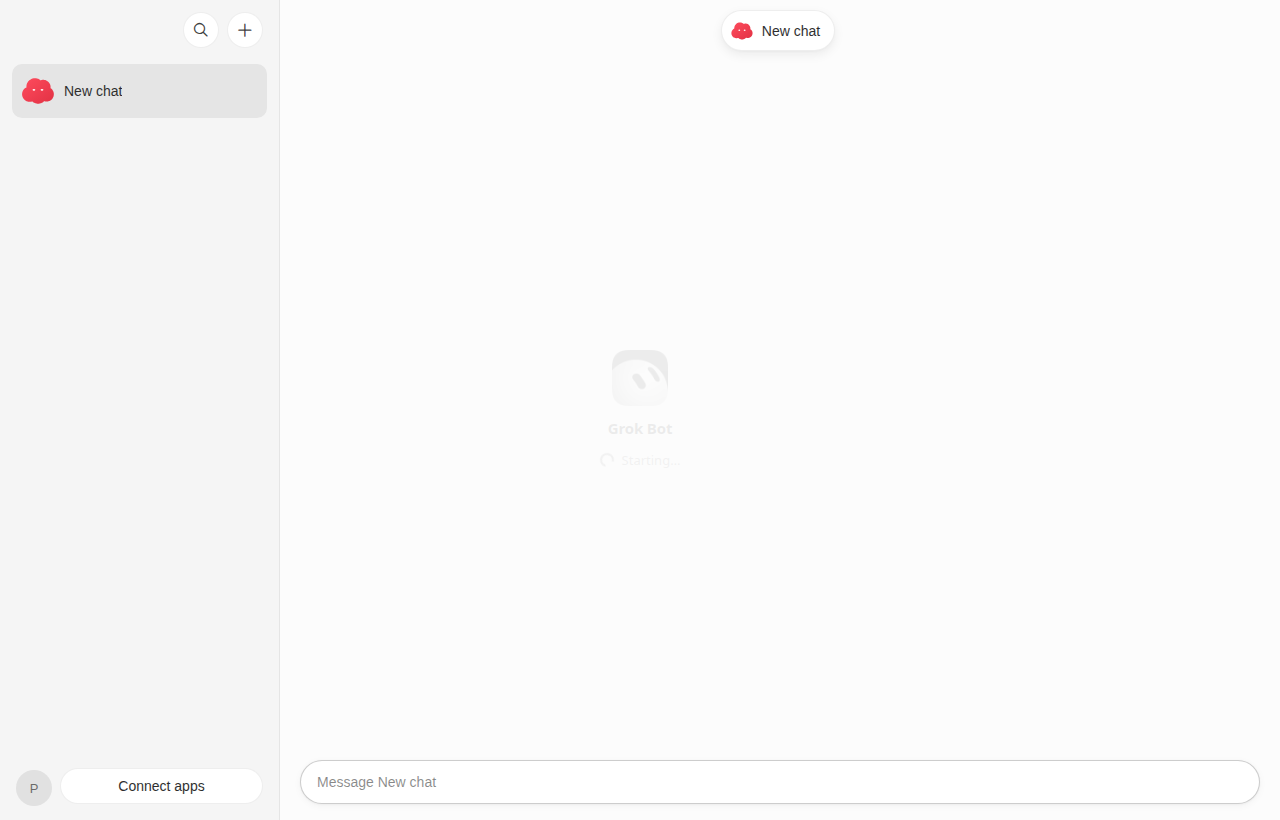
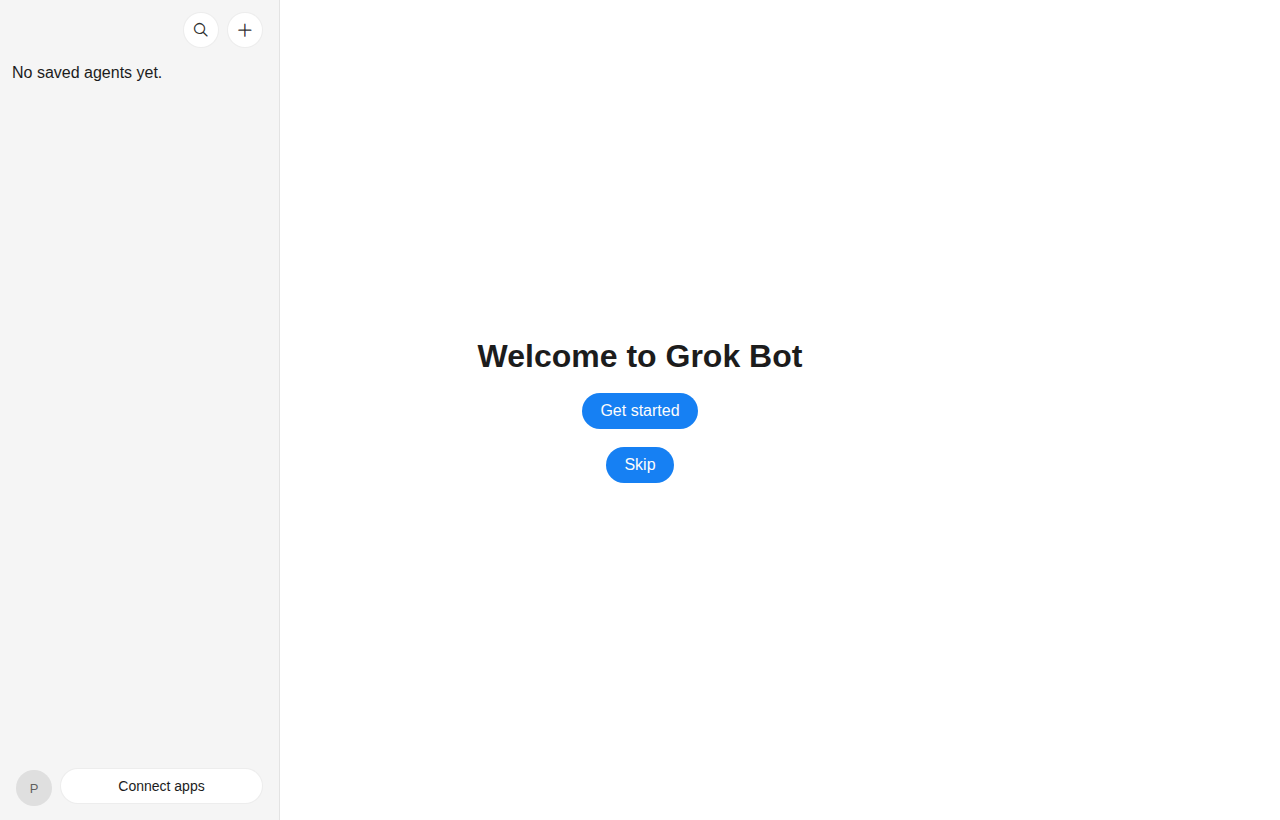
chore(tickets): T26 终验通过挪done——经理任务B
T26+T26b 合并验收 @feat/T26 145c784d：onboarding x3 12 passed、三文件 x2 34 passed、
unit 211、check diff=0；V-c 变异抽验 2/2 红。附 T26b 重拍截图（landing 亮暗、create）。

diff --git a/work/tickets/queue.md b/work/tickets/queue.md
@@ -17,9 +17,9 @@
 | U3b | **T29** 删 ToolResultCard 死路径（提议⑤）：`overrides/modules/model.ts` 的 tool-call 投影与 `p5-w3f1/w3f3` 单测随之调整；机械删除，主 agent 可直接按模板写单 | T22 合并 | 计划（与 T23 不同文件，可任意时排） |
 | U4 | **T24** 建 bot 对话框形象区（`done/T24-create-dialog-shapes.md`）：13 形状 picker（`pn` 序 blob/cloud/square/sparkle/clover/heart/flower/teardrop/tablet/wedge/house/star/hex，5/5/3）+ 11 色（含 Black，DOM 序同 T20b）+ 实时预览 + 形状/颜色各自随机初值；**选形不改色**（T20b 实测，旧「选形自动配色」作废——`tf()` 只给季节形状配色）。缺的 7 个形状（square/sparkle/clover/heart/flower/house/star）从 0.79.3 COMMON `Hs` 表与 `Lc` 复制改造，放整模块覆盖 `overrides/modules/character.tsx`（上游零改动）；哈希回落保持 8 形 / 10 色不变。真断点：`toAgentRecord` 写 `shape/color`、上游投影读 `avatarShape/avatarColor`——改键名；持久化 localStorage `pbots.shim.avatars`（同置顶先例，不动 M3）。侧栏/会话头/状态行（T23 已透传）零改动 | T23 合并（状态行头像读 T23 的 activeAgent.avatar*） | **done**（2026-11-07 经理复验通过，含 T24b；待主 agent 合并——分支 png 取 docs 版） |
 | U4b | T30 对话框换 0.79.3 版式（**T25 合并后开**：建后 rename 与 T25 同改 `data.ts createBot`；有名字时把名字写进 T25 的 `KICKSTART_PROMPT` 标签内正文）：标题「Create New Bot」+ 名字（255，「Name your Bot」，Enter 提交，空名 Create 置灰；建后 `session/rename`）+ Q-032 默认 A「More options」折叠 preset/连接器/模型（预填入口自动展开）+「Help me create a Bot」卡只渲染不接 + 行内 `role=alert`；整框对照 ref empty/named/shape3；顺带：预览尺寸（ref ≈79 CSS px）、选中态样式（ref 形状白底描边块 / 色板带白缝外圈）、Black 预览渐变改按主题纯色 | T24；Q-032（默认 A 可先做） | 计划 |
-| U5 | T26 onboarding 开闸（2026-11-07 与 kickstart 互换编号，原 T25；**T25 合并后开**——0.79.3 onboarding 主 bot 走完引导才介绍（`markOnboardingSeen().then(()=>kickstartAwaitingFirstMessage)`）：建时传 T25 的 `kickstart:false`，hand-off 后调暴露出来的 kickstart）：shim `onboarding.getSeen/setSeen` 接真实持久（首次启动 false、走完或 Skip 写 true；设置里「重看引导」若 0.18 有入口则接上）；onboarding create 步的 `createAgent` 走我们的建 bot 路径并带上 color/shape（onboarding `model.ts:260` 传 `avatarShape/avatarColor`，shim `createAgent` 现在有 chooser 时忽略 args——写进 T24 的 avatars store 即可）；先跑通 0.18 已有六步，与 T20 S5 并排对照，0.79.3 多出的 attribution/role/connect 步与 42 模板目录**另立 T28** | T24（createAgent 带形象） | **doing**（A 段 2026-11-07 经理验收返修 → T26b；回执拆出的「T26c」= 本表 T28，不另立号） |
-| U5b | **T26b** onboarding A 段返修（`open/T26b-onboarding-fixes.md`）：landing 补 `.sand-onboarding` 覆盖层根（现落视口外）；launchProduct 置 seen 后 reload 消竞态；create 步直建 setMain 防双 main；介绍挪到 seen 之后（0.79.3 `markOnboardingSeen().then(kickstart)`）；e2e ④ 走完六步 | T26 | **open** |
-| U5c | T32 onboarding B 段：3 演示 bot 编舞（0.18 scene.ts 是否够用）、beat 轴逐帧对照、T20 S5 onboarding 亮暗参照全套（含引导期间侧栏是否被覆盖）；演示 bot 走 T25 `kickstart:false` | T26 done、T20 S5 | 计划 |
+| U5 | T26 onboarding 开闸（2026-11-07 与 kickstart 互换编号，原 T25；**T25 合并后开**——0.79.3 onboarding 主 bot 走完引导才介绍（`markOnboardingSeen().then(()=>kickstartAwaitingFirstMessage)`）：建时传 T25 的 `kickstart:false`，hand-off 后调暴露出来的 kickstart）：shim `onboarding.getSeen/setSeen` 接真实持久（首次启动 false、走完或 Skip 写 true；设置里「重看引导」若 0.18 有入口则接上）；onboarding create 步的 `createAgent` 走我们的建 bot 路径并带上 color/shape（onboarding `model.ts:260` 传 `avatarShape/avatarColor`，shim `createAgent` 现在有 chooser 时忽略 args——写进 T24 的 avatars store 即可）；先跑通 0.18 已有六步，与 T20 S5 并排对照，0.79.3 多出的 attribution/role/connect 步与 42 模板目录**另立 T28** | T24（createAgent 带形象） | **done**（2026-11-07 A 段+T26b 合并验收通过 @145c784d，待合并；回执拆出的「T26c」= 本表 T28，不另立号） |
+| U5b | **T26b** onboarding A 段返修（`done/T26b-onboarding-fixes.md`）：landing 补 `.sand-onboarding` 覆盖层根（现落视口外）；launchProduct 置 seen 后 reload 消竞态；create 步直建 setMain 防双 main；介绍挪到 seen 之后（0.79.3 `markOnboardingSeen().then(kickstart)`）；e2e ④ 走完六步 | T26 | **done**（2026-11-07 验收通过，随 T26 合并） |
+| U5c | T32 onboarding B 段：3 演示 bot 编舞（0.18 scene.ts 是否够用）、beat 轴逐帧对照、T20 S5 onboarding 亮暗参照全套（含引导期间侧栏是否被覆盖；create 步版式现散——色板/角色重叠，见 ours/onboarding-create.light.png）；演示 bot 走 T25 `kickstart:false` | T26 done、T20 S5 | 计划 |
 | U6 | **T25** 建后自我介绍（kickstart）（`open/T25-kickstart-intro.md`；原计划行编号 T26）：shim `createBot` 成功后发 `session/prompt`，提示用 `<bot_introduction_request>` 标签包裹，按内容在 entries/outline 隐藏（照 0.79.3 `NF`/`wxt` 的内容匹配写法；原文「对应 wxt」不准，wxt 只认 flight 表单）；失败落 notice「Your Bot couldn't introduce itself」（`G4TlI/`）；`kickstart:false` 抑制（0.79.3 无 UI 开关，是代码路径自动抑制；留给 T26） | T22、T24 | **done**（2026-11-07 验收通过，待合并） |
 | U6b | T31「Help me create a Bot」接线（从原 U6 拆出）：卡片点了以后交给主 bot 代建（0.79.3 `isBotBuilderRequested`；服务端行为，先探我们怎么映射，比如给主 bot 发一条引导 prompt） | T30（卡片先渲染）、T25 | 计划（低） |
 | U7 | T27 subagent / 跨 bot 呈现：outline per-subagent tab（`agent.raw.subagents` + 2s 轮询）、任务卡（Subagent/Shell/Cloud 三 icon）、跨 bot 消息改 message+fromAgent/toAgent | **等用户编排层研究结论**（BRIEF §用户体验反馈 2）；先要探针：dsh subagent 子会话事件能否从 SDK 拿到 | 阻塞（不开单） |

diff --git a/work/tickets/receipts/review-T26.md b/work/tickets/receipts/review-T26.md
@@ -25,3 +25,10 @@ reviewer 实跑：check diff=0、轻量探针三件（mock 传输/React hook/数
   3. create 步直建不 setMain → finish→reloadRoster 再建空 main，用户得两个 bot。
   4. 介绍应在 seen 之后发（T25 工单 :24 锚点），回执「笔误」判断不成立。
 - reloadRoster 借 `__pbotsDev`（回执存疑）：判**可接受**——index.ts:73 无条件安装、生产可达；T26b 只要求加注释标明生产在用。
+
+## 经理终验（T26+T26b 合并，2026-11-07 13:2x，feat/T26 HEAD 145c784d）→ **accepted**
+- 重跑：build 后 onboarding ×3 **12 passed**；bots+kickstart+onboarding ×2 **34 passed**；unit **211**；check **diff=0: 332**——与回执一致。
+- 变异抽验 V-c（介绍挪回 create 步）：④ ×2 **2 failed**（250ms 窗断言命中 `bot_introduction_request`），还原后 worktree 干净并重建。
+- 截图亲眼看：landing 亮/暗——标题+Get started+Skip 在视口中央；create 步可见（版式散，归 T32）。
+- 4 条返修逐条看 diff：外壳/setMain（mainBotId===null 才 patch）/pendingKickstart+finishKickstart（skip 不发）/launchProduct reload+哨兵——均成立。
+- 遗留（不阻塞）：引导时侧栏未被覆盖、create 步版式 → T32 对照 0.79.3 参照；pendingKickstart 仅内存（create 后未走完即退出会丢介绍，可接受）。

diff --git a/work/tickets/done/T26b-onboarding-fixes.md b/work/tickets/done/T26b-onboarding-fixes.md
@@ -4,7 +4,7 @@
 > 来源：T26 终验（经理任务 B，验收时 feat/T26 HEAD 8ba0b66c）——验收命令全绿，但实物与探针打穿四处
 > 分支 / 作业目录：继续 feat/T26 @ /tmp/bot-wt/T26（同分支续修，T26 验收时一起看）
 > claimed：2026-11-07 main (GLM 5.3) @ feat/T26 续修
-> accepted：
+> accepted：2026-11-07 feat/T26 @ 145c784d（经理任务 B，与 T26b 合并验收）
 
 ## 目标
 让真首启的用户**真的看得见** landing 并能走完六步，走完后 roster 只有他建的那一个 bot，介绍时机对齐 0.79.3。

diff --git a/work/tickets/done/T26-onboarding.md b/work/tickets/done/T26-onboarding.md
@@ -4,7 +4,7 @@
 > 来源：queue U5/T26 计划行；RE-UI-0.79.3.md :99（ONB chunk）；T20 S5 止损记录
 > 分支 / 作业目录：feat/T26 @ /tmp/bot-wt/T26
 > claimed：2026-11-07 main (GLM 5.3) @ feat/T26
-> accepted：
+> accepted：2026-11-07 feat/T26 @ 145c784d（经理任务 B，与 T26b 合并验收）
 > 失败次数：1（2026-11-07 经理任务 B 返修 → open/T26b：landing 不在视口/常规 e2e 竞态/双 main/介绍时机）
 
 ## 已定事实（探针已跑掉的部分）
